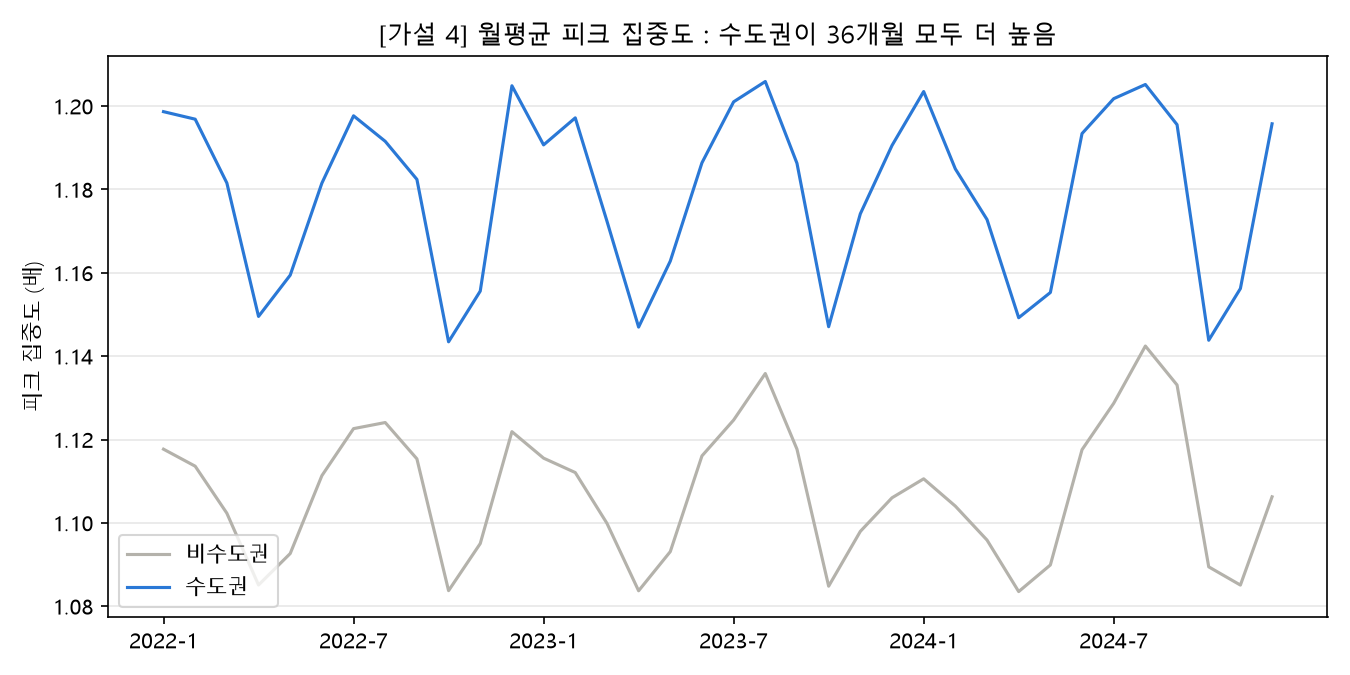
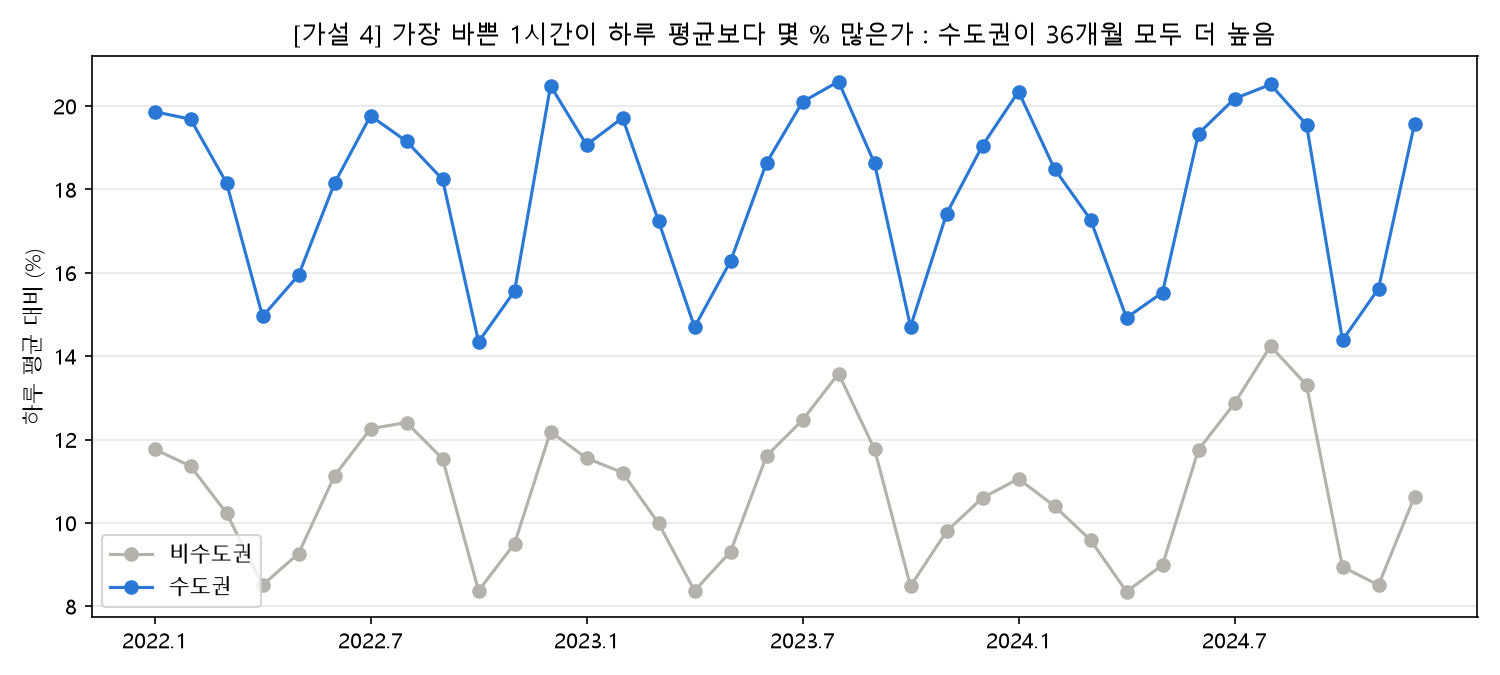
fix : 그래프 추가

diff --git a/region/region_analysis.py b/region/region_analysis.py
@@ -25,6 +25,14 @@ print( '원본 행·열 :' , df.shape )
 print( '결측치 :' , df.isnull().sum().sum() , '개' )
 print( '중복 행 :' , len( df ) - len( df.drop_duplicates() ) , '개' )
 
+# 이상치 확인 : 2022-10-02 값을 일주일 전 같은 요일 · 같은 본부 · 같은 시각 값과 비교 ( 날짜 변환 전에 실행 )
+그날 = df[ df['기준일자'] == '2022-10-02' ][ [ '본부명' , '기준시' , '전력사용량' ] ].rename( columns={ '전력사용량' : '당일' } )
+지난주 = df[ df['기준일자'] == '2022-09-25' ][ [ '본부명' , '기준시' , '전력사용량' ] ].rename( columns={ '전력사용량' : '1주전' } )
+비교 = pd.merge( 그날 , 지난주 , on=[ '본부명' , '기준시' ] , how='inner' )
+비교['비율'] = ( 비교['당일'] / 비교['1주전'] * 100 ).round( 1 )
+print( '\n[ 이상치 확인 : 2022-10-02 , 일주일 전의 60% 미만인 값 ]' )
+print( 비교[ 비교['비율'] < 60 ] )
+
 본부목록 = [ '서울본부' , '남서울본부' , '경기본부' , '경기북부본부' , '인천본부' ,
             '강원본부' , '충북본부' , '대전세종충남본부' , '전북본부' , '광주전남본부' ,
             '대구본부' , '경북본부' , '부산울산본부' , '경남본부' , '제주본부' ]
@@ -45,7 +53,7 @@ df['기준일자'] = pd.to_datetime( df['기준일자'] )
 df['연도'] = df['기준일자'].dt.year
 df['월'] = df['기준일자'].dt.month
 print( '\n처리 후 행·열 :' , df.shape )
-print( '기간 :' , df['기준일자'].min() , '~' , df['기준일자'].max() )
+print( '기간 :' , np.min( df['기준일자'] ) , '~' , np.max( df['기준일자'] ) )
 
 # 2] EDA 1 : 본부별 사용량 비중 ( 3년 합계 )
 본부별 = df.groupby( '본부명' ).agg( 사용량=( '전력사용량' , 'sum' ) ).reset_index()
@@ -140,27 +148,47 @@ plt.show()
 집중도['연도'] = 집중도['기준일자'].dt.year
 집중도['월'] = 집중도['기준일자'].dt.month
 
-# 월평균으로 묶어서 그래프 ( 1,096개 점은 너무 빽빽해서 36개로 줄이기 )
+# 월평균으로 묶기 ( 1,096일 → 36개월 )
 월별 = 집중도.groupby( [ '연도' , '월' ] ).agg( 수도권=( '수도권' , 'mean' ) , 비수도권=( '비수도권' , 'mean' ) ).reset_index()
-월별['연월'] = 월별['연도'].astype( str ) + '-' + 월별['월'].astype( str )
 
+# 배 → % 로 바꾸기 ( 1.18배 = 하루 평균보다 18% 많음 )
+월별['수도권%'] = ( 월별['수도권'] - 1 ) * 100
+월별['비수도권%'] = ( 월별['비수도권'] - 1 ) * 100
+월별['차이'] = 월별['수도권%'] - 월별['비수도권%']
+
+# x축 눈금 : 매년 1월 · 7월만 표시
 위치 = []
 라벨 = []
-for i in range( 0 , len( 월별 ) , 6 ) :   # 6개월마다 눈금
-    위치.append( i )
-    라벨.append( 월별['연월'][i] )
+for i in range( len( 월별 ) ) :
+    if 월별['월'][i] == 1 or 월별['월'][i] == 7 :
+        위치.append( i )
+        라벨.append( str( 월별['연도'][i] ) + '.' + str( 월별['월'][i] ) )
 
-plt.figure( figsize=( 9 , 4.5 ) )
-plt.plot( range( len( 월별 ) ) , 월별['비수도권'] , color=Gray , label='비수도권' )
-plt.plot( range( len( 월별 ) ) , 월별['수도권'] , color=Blue , label='수도권' )
-plt.title( '[가설 4] 월평균 피크 집중도 : 수도권이 36개월 모두 더 높음' )
-plt.ylabel( '피크 집중도 (배)' )
+# 그래프 4-1] 두 권역 비교 ( % )
+plt.figure( figsize=( 10 , 4.5 ) )
+plt.plot( range( len( 월별 ) ) , 월별['비수도권%'] , color=Gray , marker='o' , label='비수도권' )
+plt.plot( range( len( 월별 ) ) , 월별['수도권%'] , color=Blue , marker='o' , label='수도권' )
+plt.title( '[가설 4] 가장 바쁜 1시간이 하루 평균보다 몇 % 많은가 : 수도권이 36개월 모두 더 높음' )
+plt.ylabel( '하루 평균 대비 (%)' )
 plt.xticks( 위치 , 라벨 )
 plt.legend()
 plt.grid( axis='y' , alpha=0.3 )
 plt.tight_layout()
 plt.savefig( './region/images/H4_피크집중도.png' , dpi=150 )
 plt.show()
+
+# 그래프 4-2] 두 권역의 차이 ( 수도권 − 비수도권 )
+plt.figure( figsize=( 10 , 4 ) )
+plt.bar( range( len( 월별 ) ) , 월별['차이'] , color=Blue )
+plt.title( '[가설 4] 수도권 − 비수도권 피크 집중도 차이 : 36개월 모두 0보다 큼' )
+plt.ylabel( '차이 (%p)' )
+plt.xticks( 위치 , 라벨 )
+plt.grid( axis='y' , alpha=0.3 )
+plt.tight_layout()
+plt.savefig( './region/images/H4_피크집중도_차이.png' , dpi=150 )
+plt.show()
+
+print( '\n[ 월별 차이 ] 최소' , round( np.min( 월별['차이'] ) , 1 ) , '%p / 최대' , round( np.max( 월별['차이'] ) , 1 ) , '%p / 0보다 큰 달' , ( 월별['차이'] > 0 ).sum() , '/' , len( 월별 ) )
 
 # 7] 판정 출력 ( 보고서 Ⅴ장 표에 사용 )
 print( '\n========== 가설 3 : 수도권 사용량 비중 40% 이상 ==========' )
@@ -172,12 +200,12 @@ for i in range( len( 연도별 ) ) :
 H3평균 = 일별['수도권비중'].mean()
 넘은날 = ( 일별['수도권비중'] >= 40 ).sum()
 print( '3년 일별 평균 :' , round( H3평균 , 1 ) , '%' )
-print( '가장 높은 날 :' , round( 일별['수도권비중'].max() , 1 ) , '% / 가장 낮은 날 :' , round( 일별['수도권비중'].min() , 1 ) , '%' )
+print( '가장 높은 날 :' , round( np.max( 일별['수도권비중'] ) , 1 ) , '% / 가장 낮은 날 :' , round( np.min( 일별['수도권비중'] ) , 1 ) , '%' )
 print( '40% 이상인 날 :' , 넘은날 , '/' , len( 일별 ) , '일 (' , round( 넘은날 / len( 일별 ) * 100 , 1 ) , '% )' )
 
 넘은연도 = ( 연도별['비중'] >= 40 ).sum()
 H3판정 = '채택' if 넘은연도 == len( 연도별 ) else '기각'   # 3년 모두 40% 이상이어야 채택
-print( '▶ 판정 :' , H3판정 )
+print( '> 판정 :' , H3판정 )
 
 print( '\n========== 가설 4 : 수도권 피크 집중도 > 비수도권 ==========' )
 수평균 = 집중도['수도권'].mean()
@@ -200,7 +228,7 @@ print( 계절집중 )
 높은날 = ( 집중도['수도권'] > 집중도['비수도권'] ).sum()
 print( '\n수도권이 더 높은 날 :' , 높은날 , '/' , len( 집중도 ) , '일 (' , round( 높은날 / len( 집중도 ) * 100 , 1 ) , '% )' )
 H4판정 = '채택' if 수평균 > 비평균 else '기각'
-print( '▶ 판정 :' , H4판정 )
+print( '> 판정 :' , H4판정 )
 
 # 8] 한눈에 요약
 print( '\n========== 요약 ==========' )
